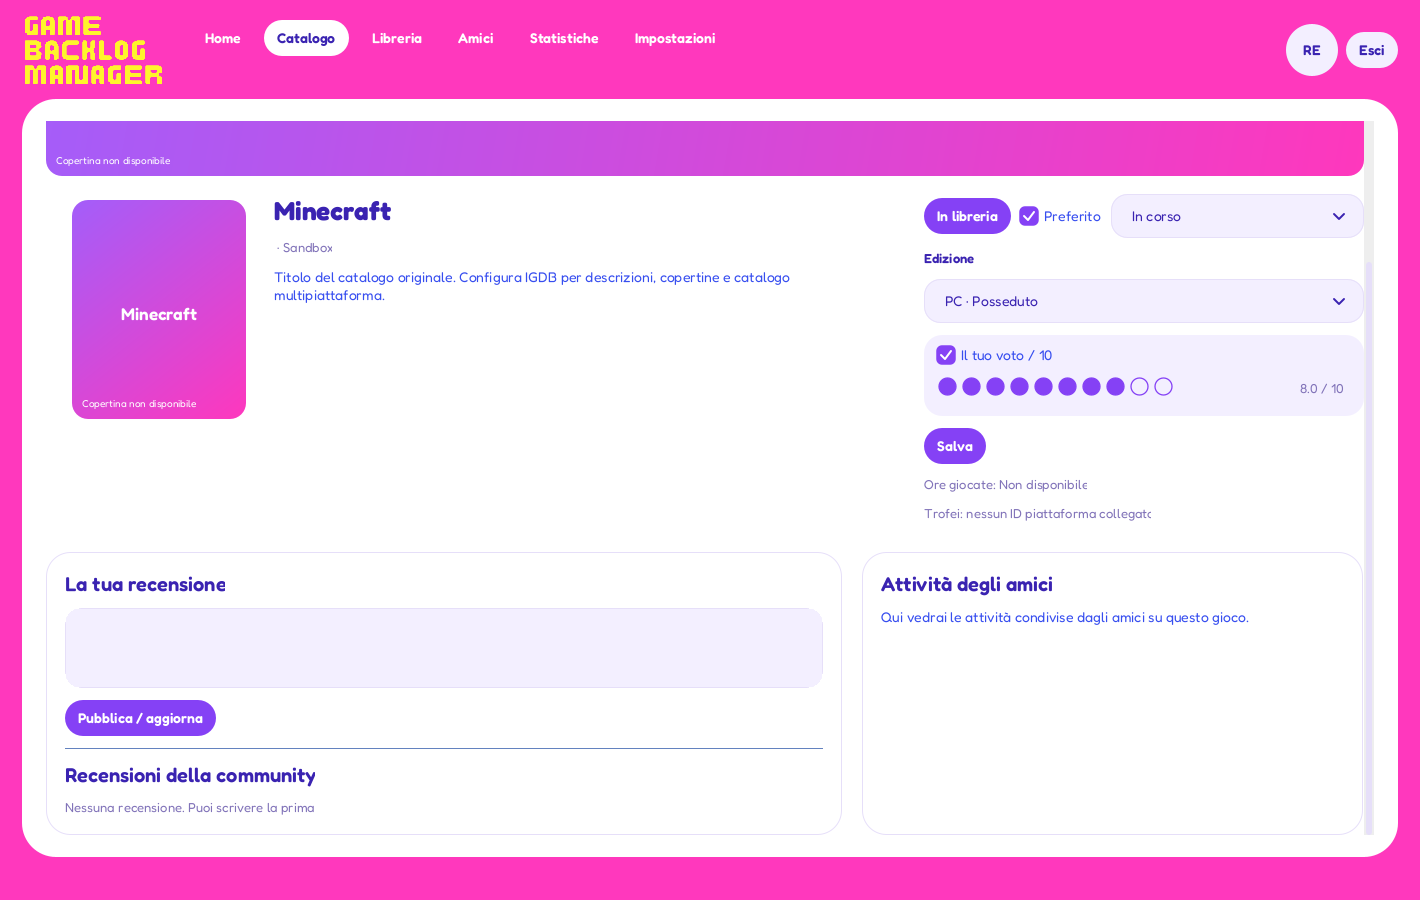
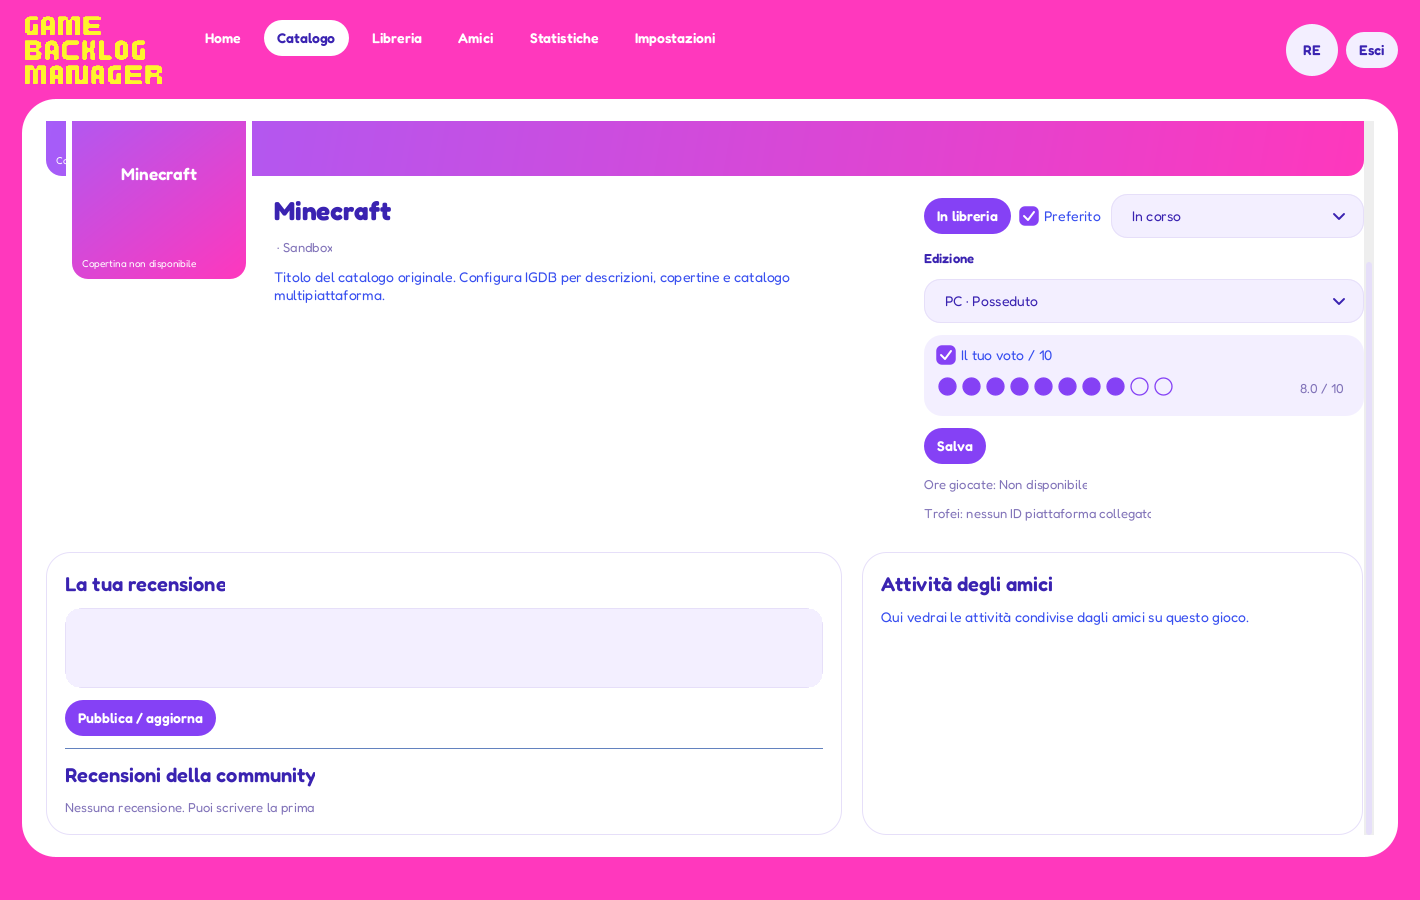
Restore approved cover overlap and document IGDB setup outside unsupported cloud browser

Changed region(s): [[0.031, 0.1244, 0.1859, 0.4667]]

diff --git a/src/gbm/App.java b/src/gbm/App.java
@@ -572,8 +572,8 @@ public final class App {
     controls.add(muted(hours == null ? "Ore giocate: Non disponibile" : String.format(Locale.ITALY, "Steam · %.1f ore", Json.num(hours, "minutes") / 60.0)));
     if (! s(g, "steamApp").isBlank()) controls.add(button("Trofei / obiettivi Steam", () -> achievements(g, uid(), null)));
     else controls.add(muted("Trofei: nessun ID piattaforma collegato"));
-    // The cover and banner occupy separate rows; their bounds never overlap.
-    JPanel head=new JPanel(null){public Dimension getPreferredSize(){int w=getWidth()>0?getWidth():1200;boolean narrow=w<1050;int h=Math.max(coverHeight(174,Objects.toString(edition.getSelectedItem()))+260,250+Math.max(summary.getPreferredSize().height,controls.getPreferredSize().height));return new Dimension(1000,narrow?250+Math.max(coverHeight(174,Objects.toString(edition.getSelectedItem())),summary.getPreferredSize().height)+controls.getPreferredSize().height+28:h+16);}public void doLayout(){int w=getWidth();boolean narrow=w<1050;banner.setBounds(0,0,w,230);coverHolder.setBounds(20,248,186,coverHeight(174,Objects.toString(edition.getSelectedItem()))+12);int controlW=Math.min(440,Math.max(390,(int)(w*.37)));int summaryW=narrow?w-234:w-controlW-254;summary.setBounds(228,248,Math.max(120,summaryW),summary.getPreferredSize().height);controls.setBounds(narrow?228:w-controlW, narrow?260+summary.getPreferredSize().height:248,narrow?w-228:controlW,controls.getPreferredSize().height);}};
+    // Restore the approved cover overlap, leaving title and controls below the banner.
+    JPanel head=new JPanel(null){public Dimension getPreferredSize(){int w=getWidth()>0?getWidth():1200;boolean narrow=w<1050;int h=Math.max(coverHeight(174,Objects.toString(edition.getSelectedItem()))+112,250+Math.max(summary.getPreferredSize().height,controls.getPreferredSize().height));return new Dimension(1000,narrow?250+Math.max(coverHeight(174,Objects.toString(edition.getSelectedItem())),summary.getPreferredSize().height)+controls.getPreferredSize().height+28:h+16);}public void doLayout(){int w=getWidth();boolean narrow=w<1050;banner.setBounds(0,0,w,230);coverHolder.setBounds(20,108,186,coverHeight(174,Objects.toString(edition.getSelectedItem()))+12);int controlW=Math.min(440,Math.max(390,(int)(w*.37)));int summaryW=narrow?w-234:w-controlW-254;summary.setBounds(228,248,Math.max(120,summaryW),summary.getPreferredSize().height);controls.setBounds(narrow?228:w-controlW, narrow?260+summary.getPreferredSize().height:248,narrow?w-228:controlW,controls.getPreferredSize().height);}};
     head.setOpaque(false);head.add(coverHolder);head.add(summary);head.add(controls);head.add(banner);all.add(head);
     edition.addActionListener(ev->{String chosen=Objects.toString(edition.getSelectedItem());selectedEdition=chosen;statusBox.setSelectedIndex(Math.max(0,Arrays.asList(codes).indexOf(editionStatus(e,chosen))));libraryButton.setText(owns(e,chosen)?"In libreria":"+ Libreria");Art changedCover=new Art(s(g,"cover"),s(g,"name"),174,coverHeight(174,chosen));changedCover.contain=true;coverHolder.removeAll();coverHolder.add(changedCover);head.revalidate();head.repaint();});
     JPanel reviewBox = card();

diff --git a/docs/INTEGRAZIONI.md b/docs/INTEGRAZIONI.md
@@ -19,3 +19,17 @@ Brevo: https://help.brevo.com/hc/en-us/articles/209467485-Create-and-manage-your
 Dopo Save/Rebuild su Render controllare `/api/health`: i flag indicano la presenza delle variabili, non la validità delle chiavi. Verificare poi una ricerca nel catalogo, un’importazione da un proprio account Steam e il recupero della password del proprio account di test. Le prove di invio email devono essere autorizzate dal titolare dell’indirizzo.
 
 Al rilascio 2.3 nessuna chiave IGDB/Steam/Brevo è stata fornita o configurata. I provider sono verificati con fixture; l’attivazione reale resta in attesa dei relativi account.
+
+## Attivare IGDB quando il browser cloud è rifiutato
+
+Completa questi passaggi nel tuo browser personale. Non è sufficiente accedere lì e poi tornare al browser cloud: le sessioni non sono condivise.
+
+1. Apri https://dev.twitch.tv/console/apps e accedi al tuo account Twitch. Per registrare applicazioni è richiesta la verifica in due passaggi su Twitch.
+2. Registra un’applicazione con un nome univoco, per esempio GameBackLogManager-renyl05. Imposta Client Type su Confidential. IGDB non usa il redirect: come valore richiesto dal form puoi usare http://localhost.
+3. Apri Manage e genera un Client Secret con New Secret. Usa il Client ID e il segreto della stessa applicazione.
+4. Apri il servizio GameBackLogManager nel Dashboard Render, poi Environment. Aggiungi IGDB_CLIENT_ID con il Client ID e IGDB_CLIENT_SECRET con il Client Secret.
+5. Salva le variabili e distribuisci nuovamente il servizio. Non sostituire o cancellare le altre variabili. Le credenziali restano sul backend: non inserirle nel client, nel repository o nella chat.
+
+Dopo la distribuzione si può verificare la configurazione tramite /api/health. Il flag igdb indica che entrambe le variabili sono presenti, non che le credenziali siano valide: per verificare la connessione effettiva va eseguita anche una ricerca nel catalogo.
+
+Riferimento ufficiale: https://api-docs.igdb.com/#account-creation

diff --git a/docs/INTERFACCIA.md b/docs/INTERFACCIA.md
@@ -44,7 +44,7 @@ Il nuovo tema scuro è un’anteprima da approvare: smeraldo profondo, oro caldo
 
 ## Correzioni 2.6 e anteprima profilo
 
-Tolto il placeholder del campo email; l’etichetta esterna resta. Ridotta l’icona Statistiche. Copertina e banner della scheda gioco occupano zone separate. Il cambio di edizione modifica i componenti sul posto e conserva la bozza della recensione e il voto non ancora salvato; non ricrea la finestra né esegue richieste di rete. Il voto non mostra più spinner o frecce. Il logo, anche cliccando direttamente sulla sua immagine, torna al menu. I messaggi dei grafici vuoti stanno in alto a sinistra. Il tema scuro approvato è indicato semplicemente come Modalità scura.
+Tolto il placeholder del campo email; l’etichetta esterna resta. Ridotta l’icona Statistiche. Su richiesta successiva dell’utente, è ripristinata la sovrapposizione della copertina sul banner come nella bozza approvata. Il cambio di edizione modifica i componenti sul posto e conserva la bozza della recensione e il voto non ancora salvato; non ricrea la finestra né esegue richieste di rete. Il voto non mostra più spinner o frecce. Il logo, anche cliccando direttamente sulla sua immagine, torna al menu. I messaggi dei grafici vuoti stanno in alto a sinistra. Il tema scuro approvato è indicato semplicemente come Modalità scura.
 
 Il nuovo profilo è un’anteprima da approvare. Mostra preferiti centrati, anteprima della libreria, liste personali e amici. L’avatar apre il proprio profilo; si possono modificare nome, età, sesso, provenienza e bio. I campi biografici sono facoltativi e pubblici; la finestra lo specifica prima del salvataggio. La libreria e i preferiti rispettano la visibilità impostata. Le liste private sono mostrate solo al proprietario. La vista di un altro utente usa la stessa disposizione, senza comando di modifica.
 

diff --git a/README.md b/README.md
@@ -42,4 +42,4 @@ Verifica automatica con Metal e Nimbus e diverse scale; schermate del programma 
 
 Logo cliccabile per tornare al menu da ogni pagina; avatar collegato al profilo, campi facoltativi età/sesso/provenienza/bio, preferiti centrati, anteprima della libreria, liste e amici. La nuova disposizione del profilo è in attesa di approvazione. Le sezioni riservate rispettano la privacy della libreria e le liste private restano visibili solo al proprietario. I campi biografici inseriti volontariamente sono pubblici.
 
-La copertina piccola non si sovrappone al banner. Il cambio di edizione aggiorna i componenti senza ricostruire la pagina né interrompere la recensione; il voto usa solo i dieci cerchi e una lettura numerica, senza campo o frecce. Icona Statistiche ridotta, nessun placeholder nel campo email, messaggi dei grafici vuoti allineati in alto.
+La copertina piccola si sovrappone nuovamente al banner, come nella bozza approvata e su richiesta dell’utente. Il cambio di edizione aggiorna i componenti senza ricostruire la pagina né interrompere la recensione; il voto usa solo i dieci cerchi e una lettura numerica, senza campo o frecce. Icona Statistiche ridotta, nessun placeholder nel campo email, messaggi dei grafici vuoti allineati in alto.
